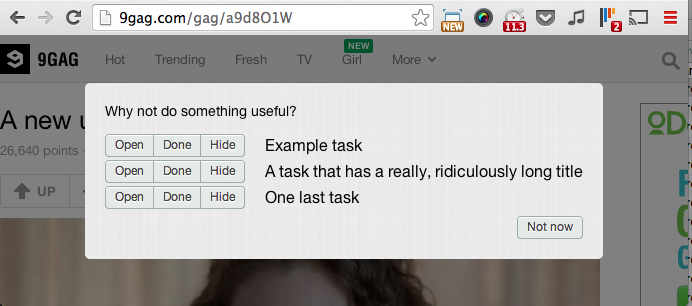
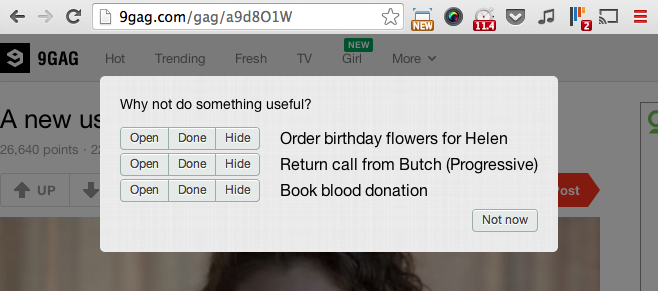
Update screenshot to match example tasks

diff --git a/js/asanatasks.js b/js/asanatasks.js
@@ -174,9 +174,9 @@ var AsanaManager = Backbone.Model.extend({
   // fake init for fast testing
   fakeInitialize: function() {
     this.set('tasks', new AsanaTaskCollection([
-      { id: 123, name: 'Example task' },
-      { id: 124, name: 'Order things from Amazon' },
-      { id: 125, name: 'A task that has a really, ridiculously long title' }
+      { id: 123, name: 'Order birthday flowers for Helen' },
+      { id: 124, name: 'Return call from Butch (Progressive)' },
+      { id: 125, name: 'Book blood donation' }
     ]));
   }
 });
